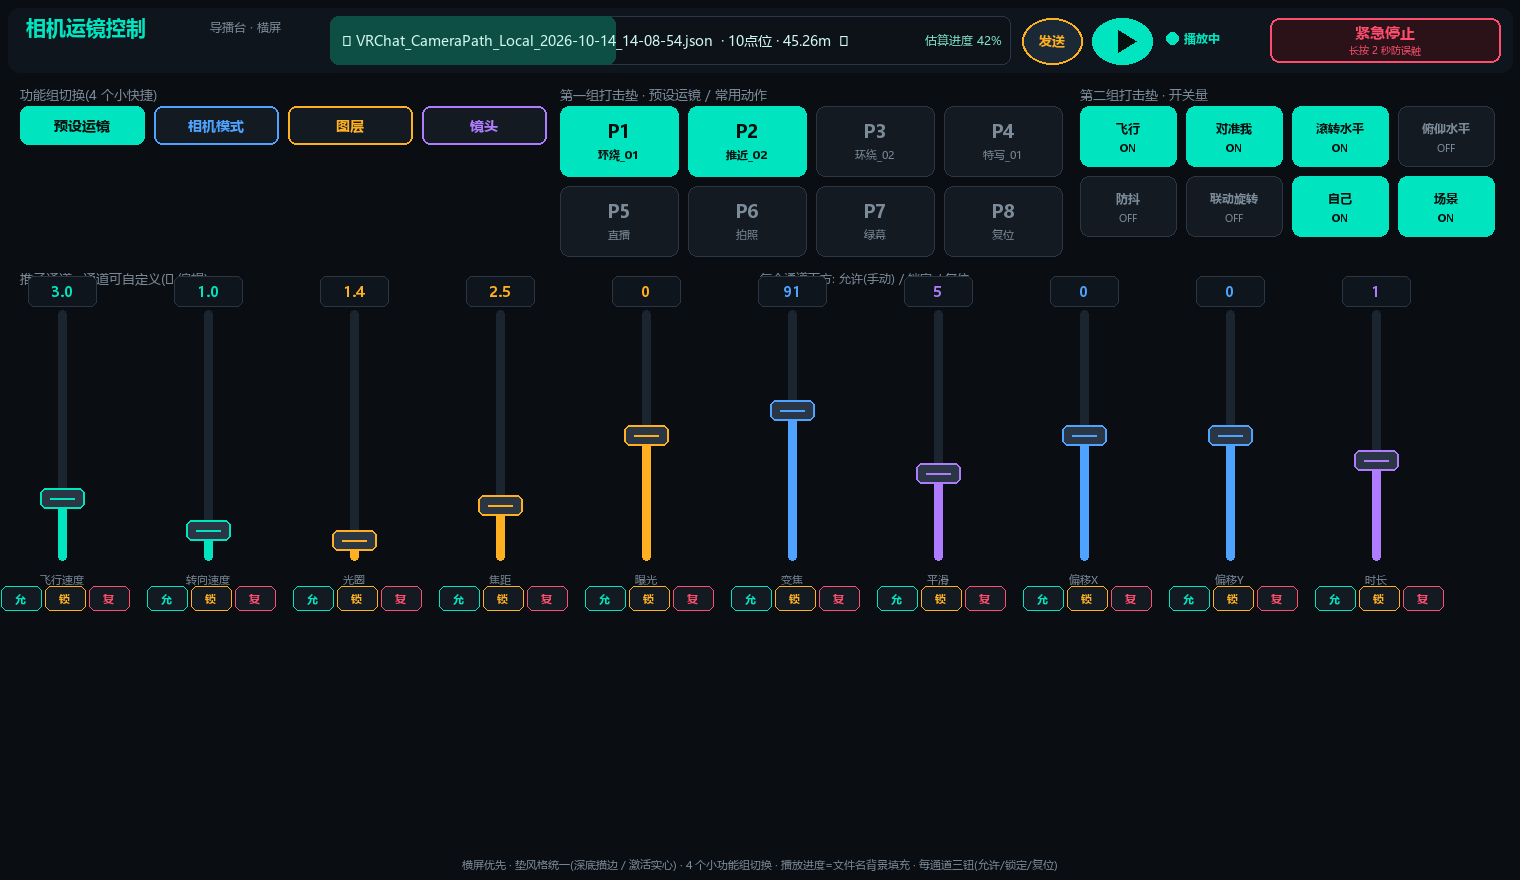
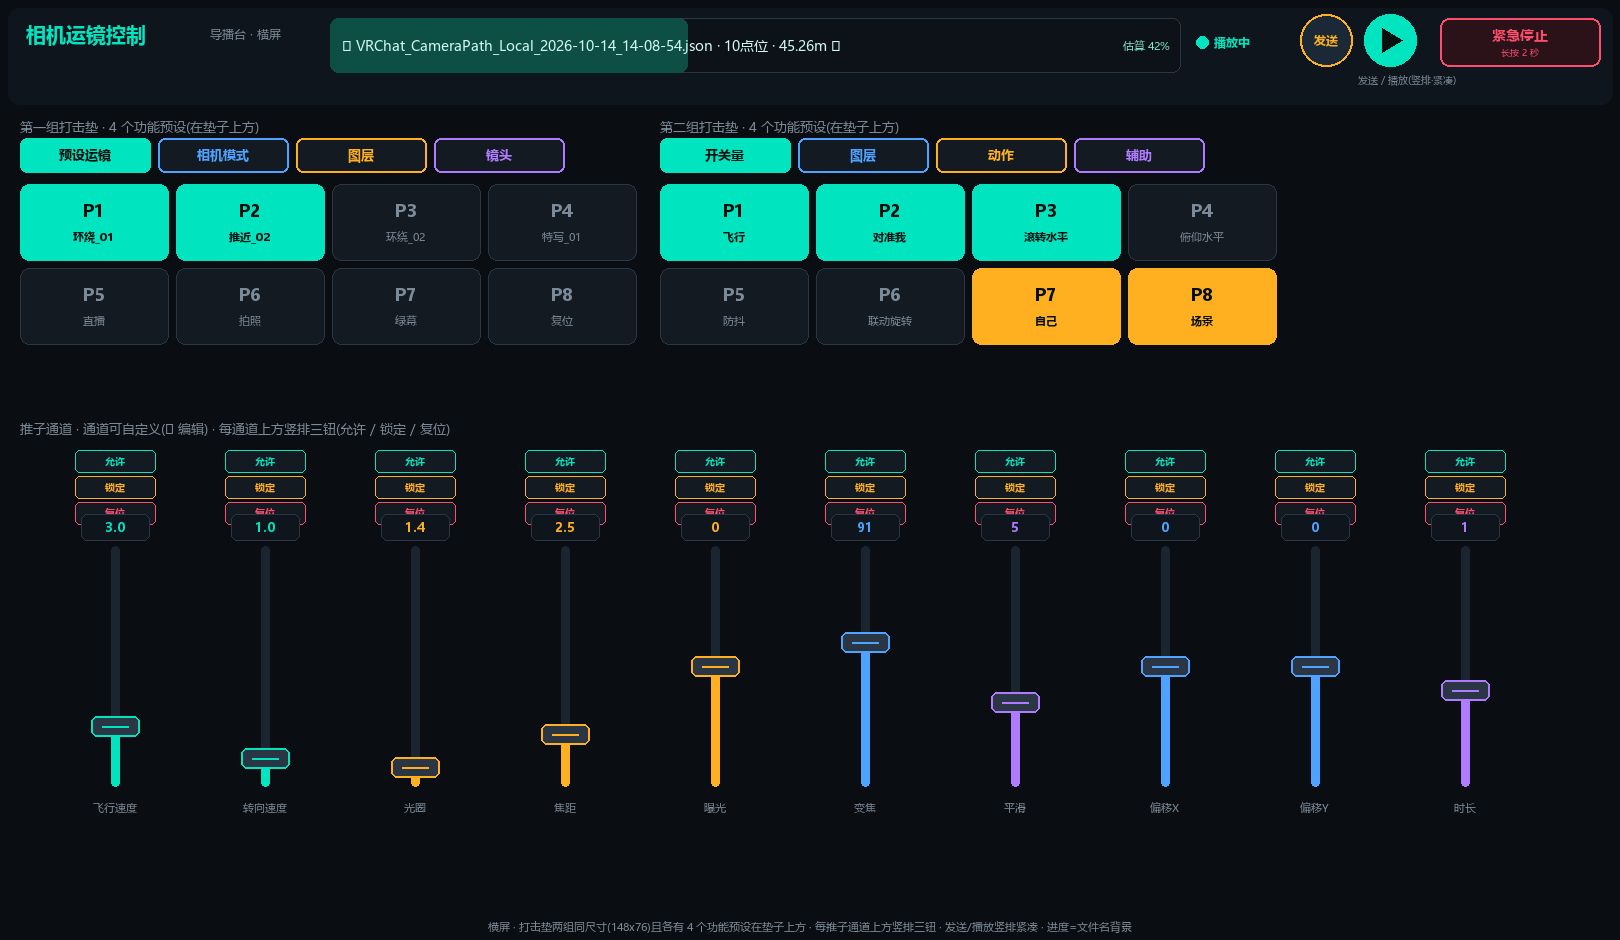
docs: 控制台示意图第四版 + 需求基线核对表 —— 修正: 每推子通道上方竖排三钮(允许/锁定/复位); 两组打击垫各带4个功能预设且都在垫子上方; 两组垫子尺寸统一(148x76); 发送/播放竖排紧凑; 进度条=文件名背景填充; 新增R01-R26逐条核对表与4项待确认

diff --git a/docs/CAMERA-CONSOLE-DESIGN.md b/docs/CAMERA-CONSOLE-DESIGN.md
@@ -66,6 +66,46 @@
 **示意图**: [mockup-console-landscape.png](./mockup-console-landscape.png)(1400×820)
 > 注: 示意图是**布局示意**, 顶栏文件名长度与紧急停止按钮在真机上要做**跑马灯裁剪**才不会重叠(图上故意保留了"太长"的样子以说明为什么需要滚动)。
 
+## 1.6 需求基线(逐条核对表, 2026-10-19)
+
+> 每次改图都要对着这张表核。标 ⏳ 的是**待用户确认**的。
+
+| 编号 | 要求(用户原话摘要) | 版本 | 状态 |
+| --- | --- | --- | --- |
+| R01 | 局域网网页控制台, 调整全部相机参数 | v1 | ✅ |
+| R02 | 页面友好, 方便移动设备操作 | v1 | ✅ |
+| R03 | 参照 Pioneer DJ XDJ 系列 | v1 | ✅(暗色/推子/垫/圆钮) |
+| R04 | 大号打击垫 = 快速导入预设运镜 / 快速调整功能 | v1 | ✅ |
+| R05 | 小号功能切换按钮 = 切换打击垫功能 | v1 | ✅ |
+| R06 | 推子区在页面最下方, 竖向排开 | v1 | ✅ |
+| R07 | 每个推子**上面**显示数值(手会遮住下面) | v1 | ✅ |
+| R08 | **手动控制 / 锁定 / 复位** 按钮 | v1 | ✅(后明确为**每通道**一组) |
+| R09 | 8 个大号自定义打击垫 | v1 | ✅ |
+| R10 | 4 个小号打击垫功能切换 | v1 | ✅ |
+| R11 | 8+4 按钮激活时高亮/闪烁, 不同组别不同颜色 | v1 | ✅(闪烁待实现) |
+| R12 | 最顶上显示信息(当前载入的预设运镜文件) | v1 | ✅ |
+| R13 | 两个圆形按钮: 发送数据 + 播放暂停 | v1 | ✅(命名改为"发送", 不叫 cue) |
+| R14 | **横屏优先** | v2 | ✅ |
+| R15 | 横屏**多一组打击垫**(第二组) | v2 | ✅ |
+| R16 | 推子通道**可自定义编辑**(页面编辑) | v2 | ✅(文档, 待实现) |
+| R17 | **发送与播放/暂停竖着排列** | v2 | ✅(v4 修正: 顶栏右侧竖排紧凑) |
+| R18 | 文件名太长**前后滚动** | v2 | ✅(跑马灯) |
+| R19 | 预设文件名后面加**紧急停止**, 防误触 | v2 | ✅(长按 2 秒) |
+| R20 | **播放状态怎么展示**(时长模糊) | v2 | ✅(状态灯 + 估算进度 + 结束校正) |
+| R21 | **进度条作为文件名背景填充** | v3 | ✅ |
+| R22 | **每通道上方竖排三钮**(允许/锁定/复位) | v4 | ✅ |
+| R23 | **打击垫的功能预设按钮在打击垫上面**(每组各 4 个) | v4 | ✅ |
+| R24 | **第二组也要有功能预设按钮** | v4 | ✅ |
+| R25 | **两组打击垫大小一样** | v4 | ✅(统一 148×76) |
+| R26 | 开关量 → 打击垫; 数值量 → 推子 | v3 | ✅ |
+
+### 待确认(⏳)
+
+1. **第二组的 4 个功能组叫什么**? 图上是猜测值(开关量 / 图层 / 动作 / 辅助);
+2. **"允许"按钮语义**: 每个通道独立开关(默认关, 按下该通道才允许手动拖动) —— 对吗?
+3. **紧急停止的防误触**: 长按 2 秒够不够? 还是要"长按 + 滑动确认"?
+4. 是否保留"归中"第三圆钮(发送/播放之外)?
+
 ## 2. 颜色分组(打击垫按功能组着色, 一眼看出状态)
 
 | 功能组 | 颜色 | 当前展示的垫子 |
